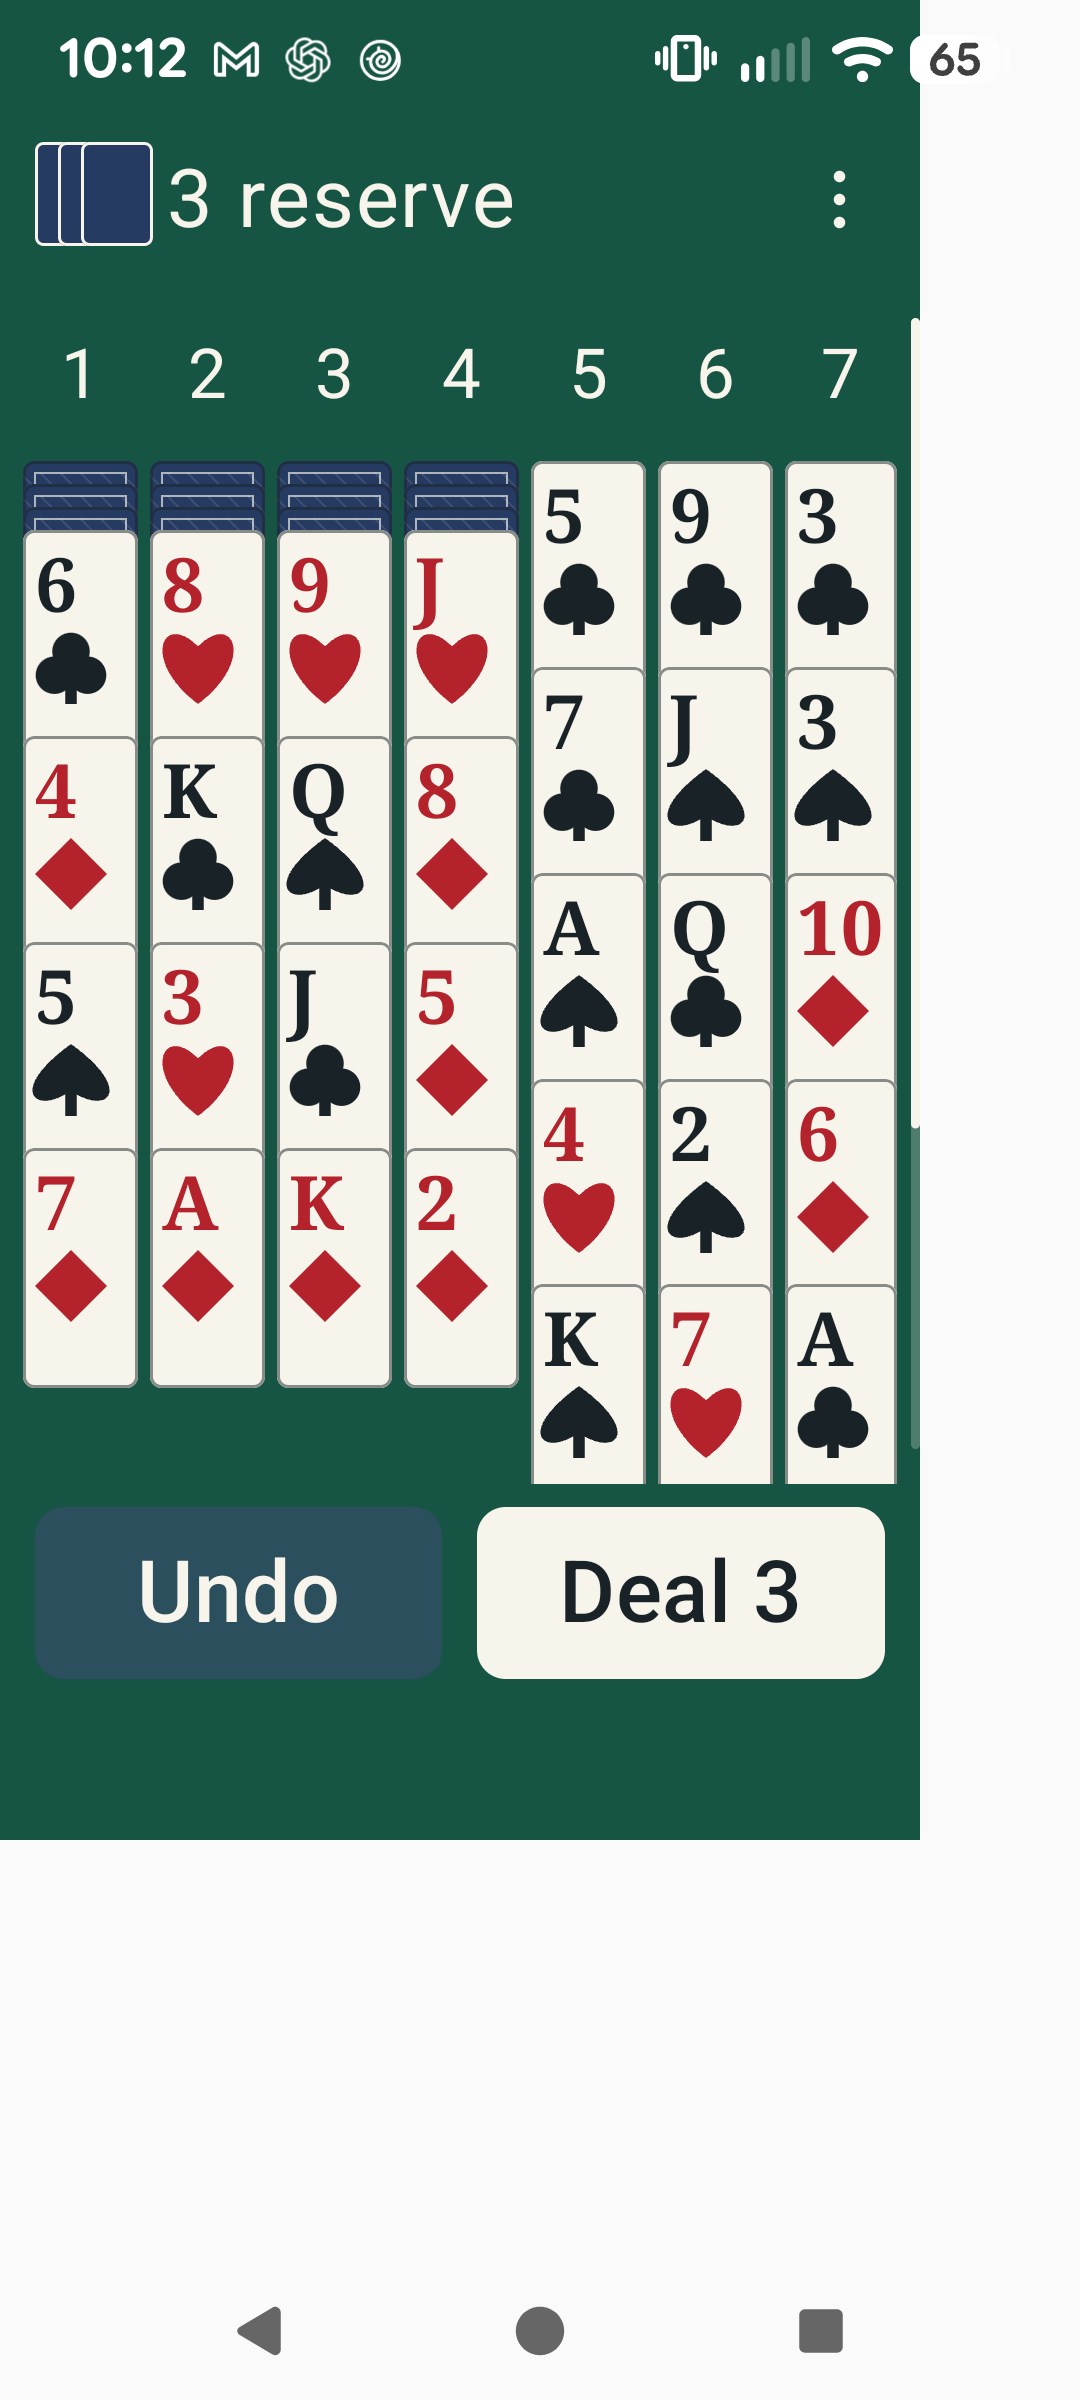
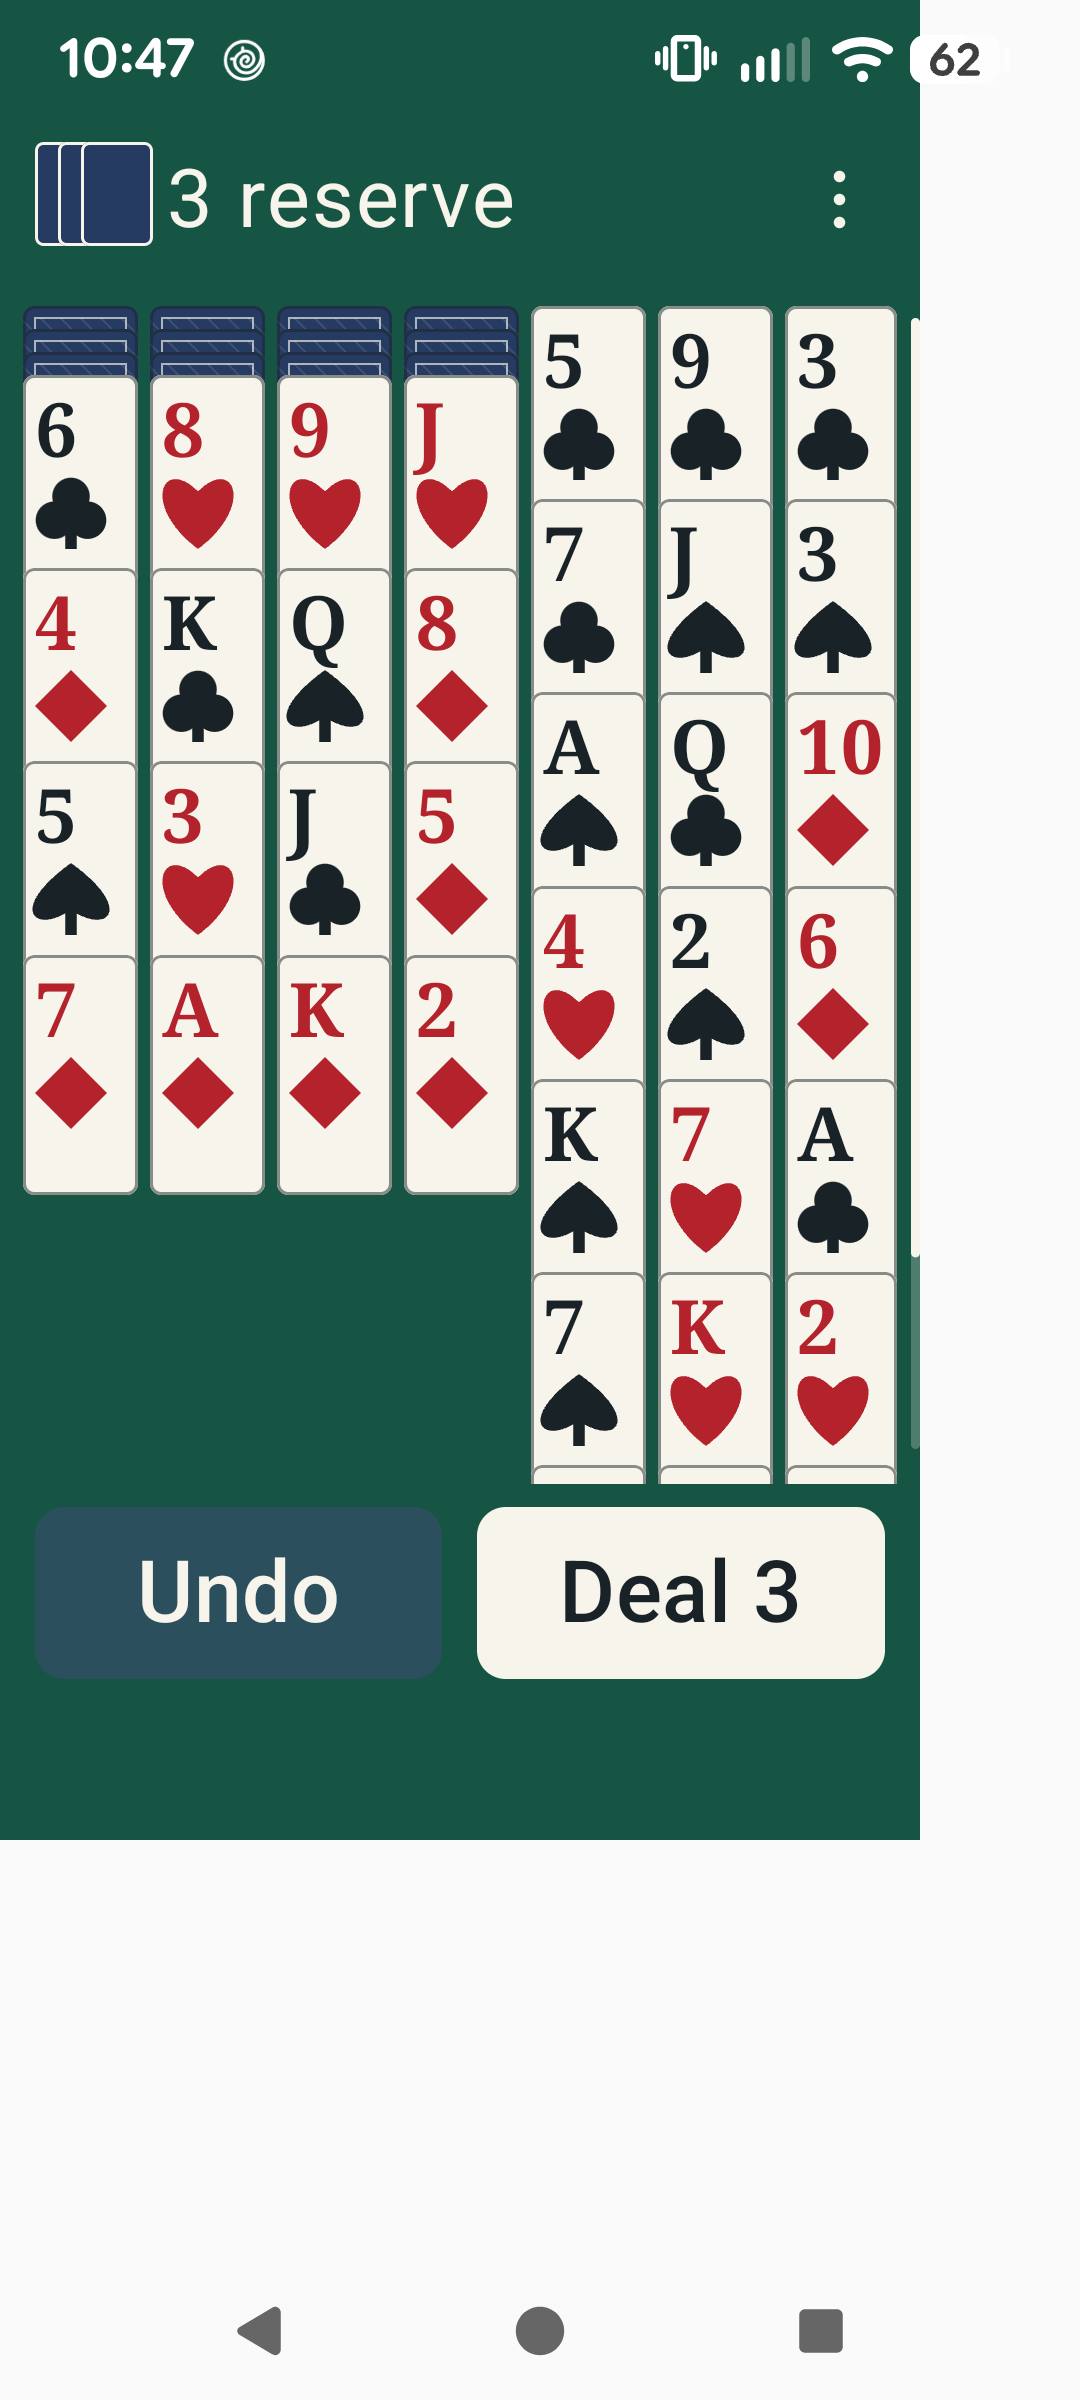
Record tighter tableau spacing and verified Pixel evidence

diff --git a/docs/phase4d-interface.md b/docs/phase4d-interface.md
@@ -10,7 +10,7 @@ Owner explicitly approved the final design in the Work conversation on **2026-11
 | 4D-UX-02 | Compact reserve/menu row. Exactly two persistent play controls: Undo and Deal 3. Restart, New Game and Help in Menu; destructive confirmations retained. |
 | 4D-UX-03 | **Revised by owner:** remove the separate Inspect screen and button. Readable exposed strips, board scrolling and direct accessibility actions replace inspection. |
 | 4D-UX-04 | Tap a face-up card selects that card and its whole attached tail. Tap legal column commits that group. Tap illegal column clears selection only: board, revision and Undo stay unchanged. No separate visible destination chooser or selection toolbar. |
-| 4D-UX-05 | Warm ivory faces, original traditional suit artwork, restrained blue backs, continuous gold/dark selected-group outline; legal columns have arrow plus dashed edge. Completed suits stay on the board; no top completion display. |
+| 4D-UX-05 | Warm ivory faces, original traditional suit artwork, restrained blue backs, continuous gold/dark selected-group outline; legal columns have a dashed edge. Completed suits stay on the board; no top completion display. |
 | 4D-UX-06 | Portrait bottom controls, short-window side controls, centered width-capped tablet cards. Large text stacks indices and grows overlap; no height-driven tiny type. |
 | 4D-UX-07 | Every exposed source and legal destination available through board accessibility actions, native selected/start/attached-tail semantics and keyboard controls. No second tableau or rule implementation. |
 | 4D-UX-08 | High-contrast palette, safe insets, non-color state cues and immediate feedback without required motion. No new preference settings. |
@@ -19,7 +19,13 @@ The owner explicitly removed **Hint as a feature**, including reserve suggestion
 
 ![Owner-approved final visual concept](evidence/phase4d/approved-concept.png)
 
-The image is an AI-generated design illustration, not an application screenshot or imported runtime card pack. It is the owner's accepted visual direction; platform typography, responsive spacing and actual rendered evidence are validated separately. The concept has no title, Hint, Inspect, completion display or extra selection toolbar.
+The owner subsequently requested removal of visible column headings and tighter exposed-card spacing; those details supersede the concept. The image is an AI-generated design illustration, not an application screenshot or imported runtime card pack. It is the owner's accepted visual direction; platform typography, responsive spacing and actual rendered evidence are validated separately. The concept has no title, Hint, Inspect, completion display or extra selection toolbar.
+
+## Owner-requested spacing refinement (2026-11-01)
+
+Visible column numbers and their heading row are removed; column identifiers remain in accessibility descriptions/actions. Each face-up overlap reclaims half the unused space below the rank/suit, preserving the existing rank/suit sizes, system text scaling and whole-card dimensions. The legal-destination dashed border remains. Selected outlines, drag previews and hit bounds share the same geometry. Long columns still scroll.
+
+At 360dp of board space and 130% font, the exposed step decreases from 51.18dp to 47.25dp, saving 3.94dp per face-up overlap in addition to the removed heading row. This is a geometry calculation, not a measured human performance gain.
 
 ## Implementation contract
 
@@ -33,16 +39,16 @@ Normal selection, illegal-tap cancellation and success feedback have a polite li
 
 ## Verified implementation and test results
 
-Application/test code head **`dec32f8ec231683a9ccd29893e0b499856edc47a`** passed [CI run 41324836351](https://github.com/FoxyLight/Wasp-Solitaire/actions/runs/41324836351):
+Application/test code head **`7e2fb38e20ddd85787d6b6e849950a26a8b3bea8`** passed [CI run 41327874017](https://github.com/FoxyLight/Wasp-Solitaire/actions/runs/41327874017):
 
 | Check | Actual result and evidence |
 | --- | --- |
-| [verify](https://github.com/FoxyLight/Wasp-Solitaire/actions/runs/41324836351/job/124902493346) | Android application/test APKs compiled; downloaded JUnit XML: **41 tests, zero failures/errors/skips** (17 pure engine, 24 application JVM). |
-| [emulator](https://github.com/FoxyLight/Wasp-Solitaire/actions/runs/41324836351/job/124902787465) | Android 15 / API 35, x86_64 AVD `test`, system animations disabled: **23 tests, zero failures/errors/skips**, 55.031 seconds in downloaded JUnit XML. |
-| Pixel 7a instrumentation | Installed the matched app/test APK pair from that verify artifact. Android 17 / API 37, physical 1080×2400px, density override 460, default font scale 1.3: **OK (23 tests)** in **70.644 seconds**. Actual rotation and recreation included. |
-| Owner-assisted TalkBack | On the same Pixel with build `270f09689faa4ec7f8044e062aea1c4832aa0988`, the owner confirmed all four checks worked and announcements were clear: card identity/column/tail count, legal movement, illegal-tap cancellation without movement, and Undo. The agent observed service binding/focus but does not claim to have heard the speaker. The subsequent code fix only prevents stale cancellation notices; labels and action semantics are unchanged. |
+| [verify](https://github.com/FoxyLight/Wasp-Solitaire/actions/runs/41327874017/job/124911541213) | Android application/test APKs compiled; downloaded JUnit XML: **41 tests, zero failures/errors/skips** (17 pure engine, 24 application JVM). |
+| [emulator](https://github.com/FoxyLight/Wasp-Solitaire/actions/runs/41327874017/job/124911860819) | Android 15 / API 35, x86_64 AVD `test`, system animations disabled: **23 tests, zero failures/errors/skips**, 51.016 seconds in downloaded JUnit XML. |
+| Pixel 7a instrumentation | Installed the matched app/test APK pair from that verify artifact. Android 17 / API 37, physical 1080×2400px, density override 460, default font scale 1.3: **OK (23 tests)** in **71.149 seconds**. Actual rotation and recreation included. |
+| Owner-assisted TalkBack | On the same Pixel with build `270f09689faa4ec7f8044e062aea1c4832aa0988`, the owner confirmed all four checks worked and announcements were clear: card identity/column/tail count, legal movement, illegal-tap cancellation without movement, and Undo. The agent observed service binding/focus but does not claim to have heard the speaker. Subsequent changes prevent stale cancellation notices and compact visual spacing; labels and action semantics are unchanged. The full custom-action/keyboard suite passed again on the spacing refinement; the owner speech check was not repeated. |
 
[2 lines of base64/hex data omitted]
 
 The final evidence/report commit changes documentation only. Its exact PR head and **both required CI job results on that head** are recorded in [PR #22](https://github.com/FoxyLight/Wasp-Solitaire/pull/22); do not infer a final-head pass from the earlier code-head run above. The workstation has no configured Android SDK, so no local Android build pass is claimed. Builds ran in CI; matched APKs ran on the real device.
 
@@ -77,7 +83,7 @@ All seven application images below are unmodified native captures from the teste
 
 ### Contrast and motion
 
-[Rendered palette and sRGB contrast check](evidence/phase4d/contrast-check.json) samples actual Pixel pixels and verifies the intended fill colors are present. Black/ivory **14.56:1**, red/ivory **5.93:1**, table text/green **8.01:1**, Undo text/blue **10.13:1**, disabled Undo text/rendered background **9.33:1**, selected dark inner boundary/ivory **11.15:1**. Gold/ivory alone is **1.25:1** and is supplementary to the dark edge, shape and native selected semantics. This is fill-pair validation and visual review, not a blanket accessibility certification. Native Material feedback remains system-aware; no custom transition requires motion, and the full CI suite runs with system animations disabled.
+[Rendered palette and sRGB contrast check](evidence/phase4d/contrast-check.json) from the earlier `dec32f8` build samples actual Pixel pixels (palette/rendering colors are unchanged by the spacing refinement) and verifies the intended fill colors are present. Black/ivory **14.56:1**, red/ivory **5.93:1**, table text/green **8.01:1**, Undo text/blue **10.13:1**, disabled Undo text/rendered background **9.33:1**, selected dark inner boundary/ivory **11.15:1**. Gold/ivory alone is **1.25:1** and is supplementary to the dark edge, shape and native selected semantics. This is fill-pair validation and visual review, not a blanket accessibility certification. Native Material feedback remains system-aware; no custom transition requires motion, and the full CI suite runs with system animations disabled.
 
 ## Remaining usability limits
 

diff --git a/docs/decisions.md b/docs/decisions.md
@@ -1,6 +1,6 @@
 # Architecture and product decision log
 
-**Phase 4D owner amendment (2026-11-01):** [Final approved design and implementation record](phase4d-interface.md) supersedes earlier Hint/expanded-inspection/control-layout proposals. Hint is removed (MVP-08 / MVP-DEC-03); no separate Inspect screen, title or completion display. Two-tap moves use whole-tail selection and explicit destination; illegal destination taps clear selection without a game action. Primary controls are Undo and Deal 3. Full non-drag access remains through direct board accessibility actions. Owner design approval authorizes implementation; merge and publication remain separate gates. Phases 4A–4C are merged through PRs #18–20. Historical text below must be read with this amendment.
+**Phase 4D owner amendment (2026-11-01):** [Final approved design and implementation record](phase4d-interface.md) supersedes earlier Hint/expanded-inspection/control-layout proposals. Hint is removed (MVP-08 / MVP-DEC-03); no separate Inspect screen, title or completion display. Two-tap moves use whole-tail selection and explicit destination; illegal destination taps clear selection without a game action. Primary controls are Undo and Deal 3. A subsequent owner refinement removes visible column headings and halves unused exposed-card whitespace while preserving rank/suit sizes; accessibility column identifiers remain. Full non-drag access remains through direct board accessibility actions. Owner design approval authorizes implementation; merge and publication remain separate gates. Phases 4A–4C are merged through PRs #18–20. Historical text below must be read with this amendment.
 
 **Status:** RULE-01–06, MVP-DEC-01–08, ARCH-DEC-01–08, UX-DEC-01–08 and REL-DEC-01–08 **Accepted** by project owner on 2026-10-29. Provisional app identity and real-world account, trademark, package, asset and release verification remain outstanding.  
 **Created:** 2026-10-29  
